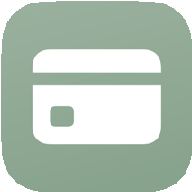
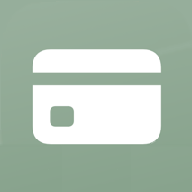
Added test input

Changed region(s): [[0.0, 0.0, 1.0, 1.0], [0.8125, 0.8125, 1.0, 1.0]]

diff --git a/schmeconomics.client/app/components/currency/CurrencyInput.vue b/schmeconomics.client/app/components/currency/CurrencyInput.vue
@@ -5,6 +5,7 @@ const inputEl = ref<{ inputRef: { $el: HTMLInputElement }} | null>(null);
 const props = withDefaults(defineProps<{readonly?: boolean}>(), { readonly: false });
 const model = defineModel<number>();
 const parts = ref<CurrencyInputPart[]>([new CurrencyInputPart(CurrencyPartType.Plus, model.value!)]);
+const keyValue = ref<string>("");
 function addOperator(
   operatorString: string
 ) {
@@ -39,6 +40,7 @@ function handleInput(keyboardEvent: KeyboardEvent) {
   if (!model.value) parts.value = [new CurrencyInputPart(CurrencyPartType.Plus, 0)];
   if (keyboardEvent.key != "Tab") 
     keyboardEvent.preventDefault();
+  keyValue.value = keyboardEvent.key;
 
   if (props.readonly) return;
 
@@ -74,6 +76,7 @@ function handleInput(keyboardEvent: KeyboardEvent) {
     type="tel"
     :value="formattedValue" :disabled="props.readonly" @keydown="handleInput"
   /> 
+  <UInput v-model="keyValue" />
   <UButton
     variant="outline"
     class="px-4 mx-2"
